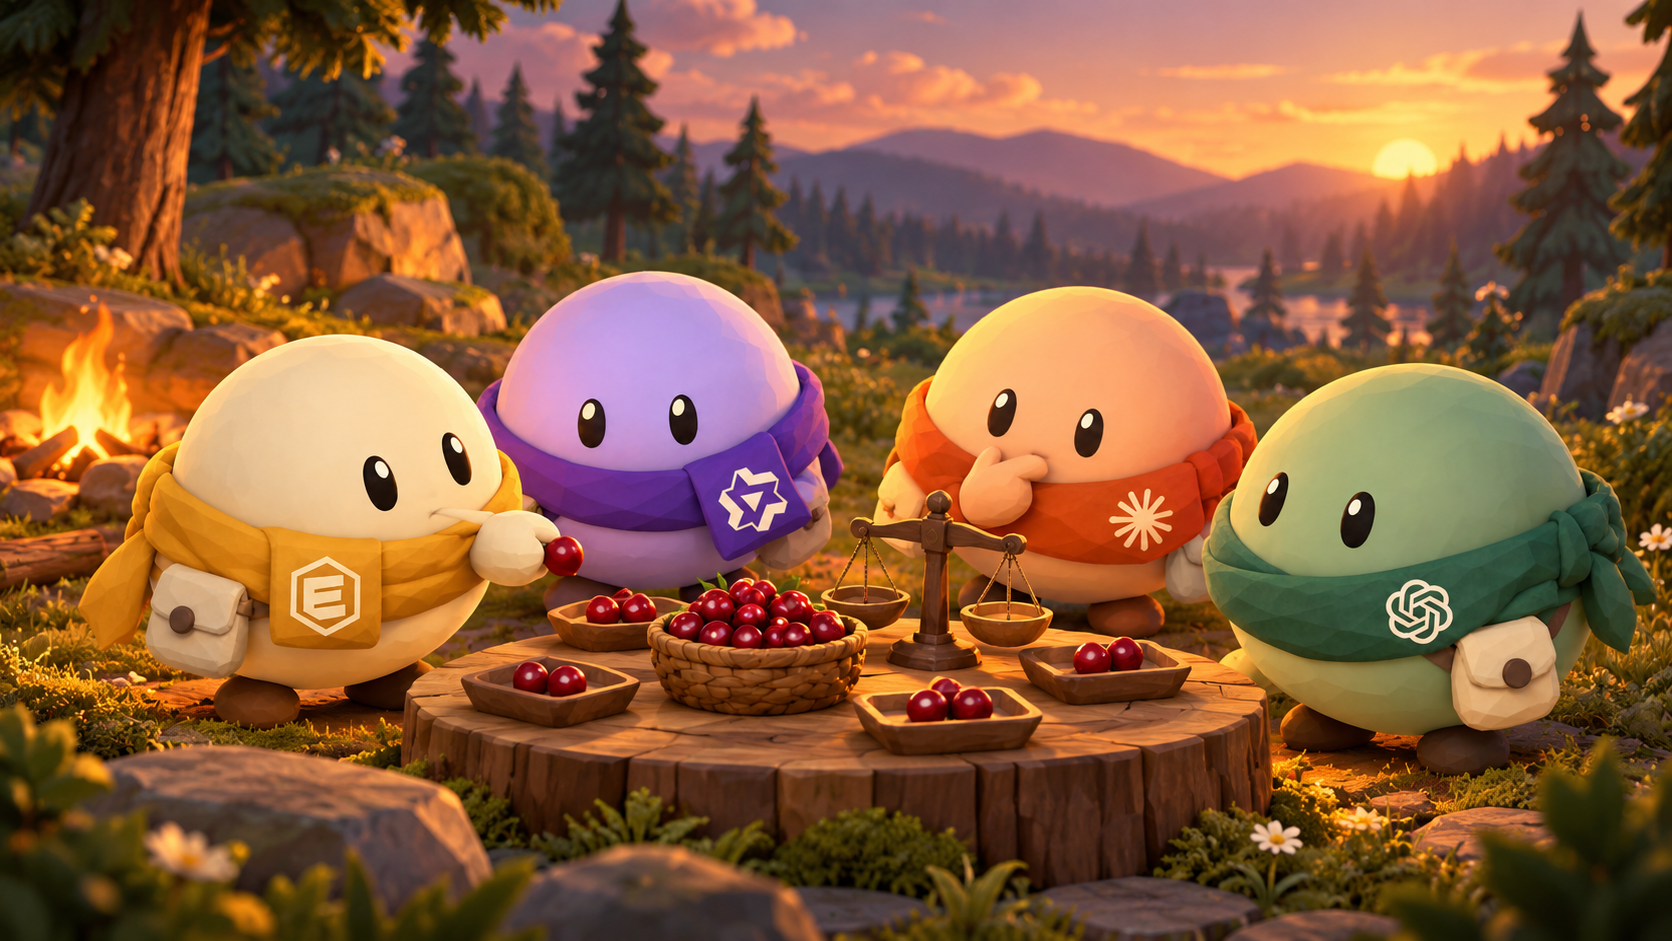
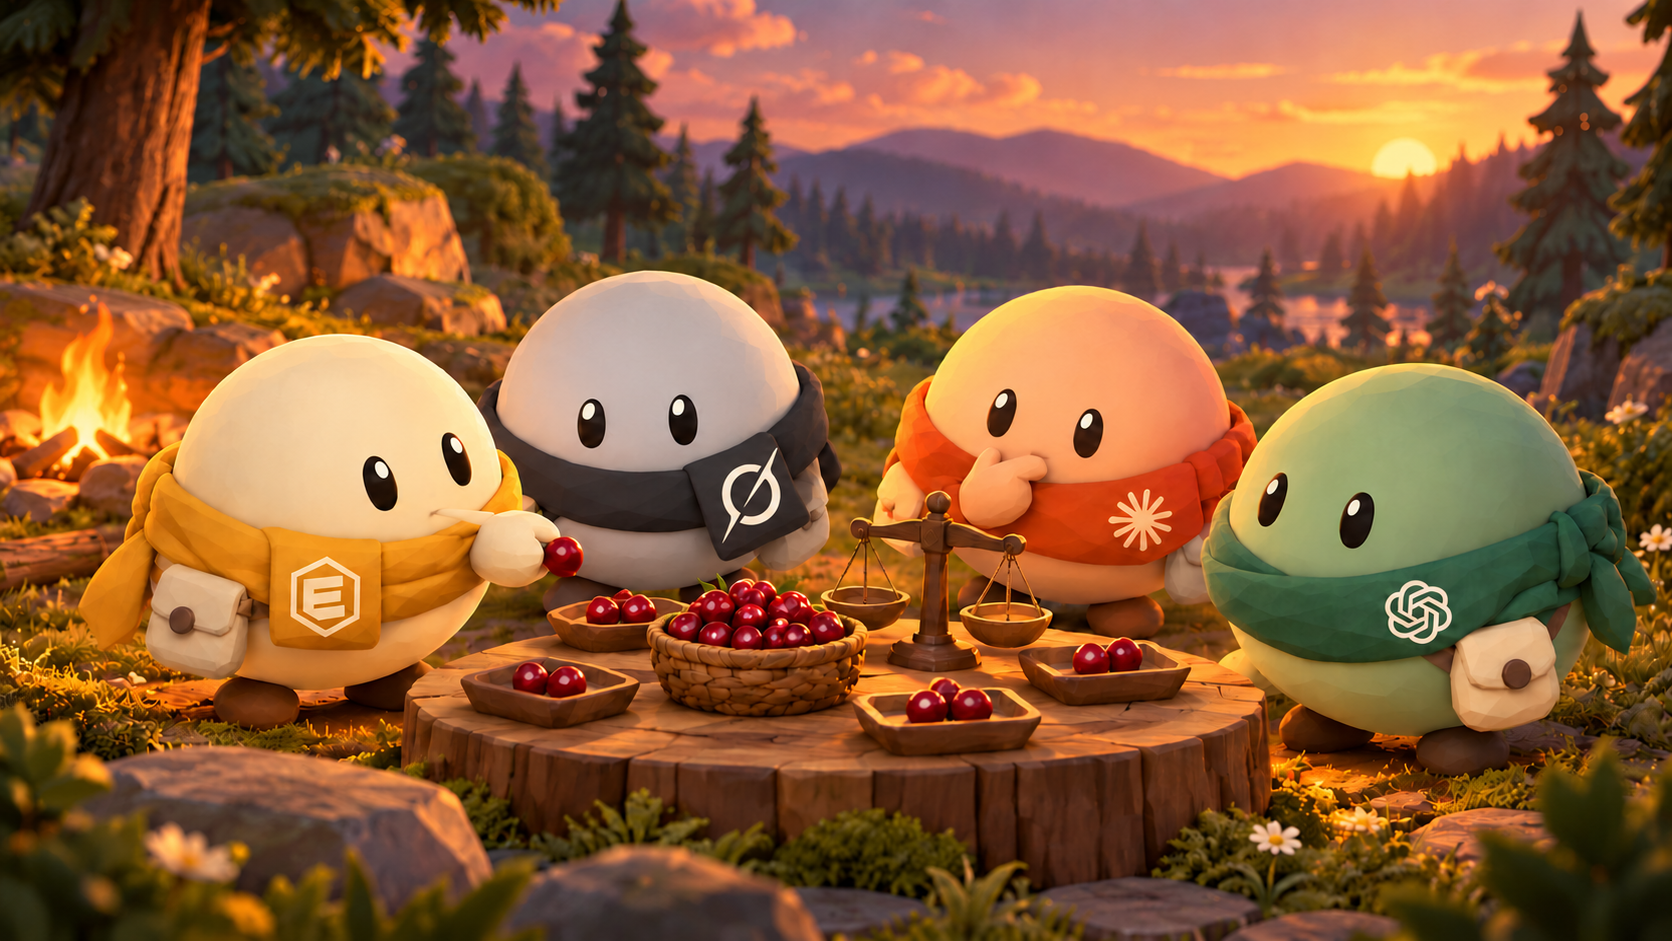
Replace Qwen preset with Grok and refine its model emblem

diff --git a/world/src/frontend/studio-navigation.test.ts b/world/src/frontend/studio-navigation.test.ts
@@ -23,12 +23,12 @@ describe('Observation Studio navigation contracts', () => {
   });
   it('retains draft model through single-agent preview and return', () => {
     const result = journey(
-      { type: 'select-draft-model', model: 'Qwen' },
+      { type: 'select-draft-model', model: 'Grok' },
       { type: 'select-draft-mode', mode: 'single' },
       { type: 'navigate', screen: 'briefing' },
       { type: 'back' },
     );
-    expect(result).toMatchObject({ screen: 'single', draftMode: 'single', draftModel: 'Qwen' });
+    expect(result).toMatchObject({ screen: 'single', draftMode: 'single', draftModel: 'Grok' });
   });
   it('switches agents without moving the replay or changing the run', () => {
     const result = journey(
@@ -66,21 +66,21 @@ describe('Observation Studio navigation contracts', () => {
   });
   it('cancel leaves the applied comparison untouched', () => {
     const result = journey({ type: 'begin-model-change' }, { type: 'pending-model', slot: 1, model: 'Claude' }, { type: 'cancel-model-change' });
-    expect(result.comparePair).toEqual(['Ender', 'Qwen']);
+    expect(result.comparePair).toEqual(['Ender', 'Grok']);
     expect(result.pendingComparePair).toBeNull();
   });
   it('applies a distinct comparison only on Apply', () => {
     const pending = journey({ type: 'begin-model-change' }, { type: 'pending-model', slot: 1, model: 'Claude' });
-    expect(pending.comparePair).toEqual(['Ender', 'Qwen']);
+    expect(pending.comparePair).toEqual(['Ender', 'Grok']);
     expect(transitionStudio(pending, { type: 'apply-model-change' }).comparePair).toEqual(['Ender', 'Claude']);
   });
   it('rejects duplicate model comparisons at the state boundary', () => {
     const duplicate = journey({ type: 'begin-model-change' }, { type: 'pending-model', slot: 1, model: 'Ender' });
-    expect(transitionStudio(duplicate, { type: 'apply-model-change' }).comparePair).toEqual(['Ender', 'Qwen']);
+    expect(transitionStudio(duplicate, { type: 'apply-model-change' }).comparePair).toEqual(['Ender', 'Grok']);
   });
   it('restores comparison filter and pair after evidence', () => {
     const result = journey({ type: 'navigate', screen: 'compare' }, { type: 'compare-scenario', scenario: 'lending' }, { type: 'navigate', screen: 'context' }, { type: 'navigate', screen: 'method' }, { type: 'back' }, { type: 'back' });
-    expect(result).toMatchObject({ screen: 'compare', compareScenario: 'lending', comparePair: ['Ender', 'Qwen'] });
+    expect(result).toMatchObject({ screen: 'compare', compareScenario: 'lending', comparePair: ['Ender', 'Grok'] });
   });
   it('keeps Lending context scoped through nested navigation', () => {
     const result = journey({ type: 'select-briefing-scenario', scenario: 'lending' }, { type: 'navigate', screen: 'lending' }, { type: 'navigate', screen: 'context' }, { type: 'back' });

diff --git a/world/src/frontend/ui-ux/Studio.tsx b/world/src/frontend/ui-ux/Studio.tsx
@@ -13,7 +13,7 @@ import '../studio.css';
 import { withModelNames } from '../model-identity';
 import { ModelBuddy } from './ModelBuddy';
 
-const MODELS: StudioModel[] = ['Ender', 'Qwen', 'Claude', 'ChatGPT'];
+const MODELS: StudioModel[] = ['Ender', 'Grok', 'Claude', 'ChatGPT'];
 const playbackIcon = { previous: '/studio/f7bee.svg', play: '/studio/fbfe3.svg', stop: '/studio/4660a.svg', next: '/studio/aff88.svg' };
 
 export default function Studio() {
@@ -201,7 +201,7 @@ function StudioPages({ state, dispatch, source: rawSource }: { state: StudioStat
           {state.selectedAgentId && selected && <div className="agent-focus" role="status">Following {selected.name}</div>}
           {!source.live && <ReplayDock source={source} current={visibleEvent} onCommand={replayCommand} />}
         </div>
-        {source.ready && source.data?.world && <details className="studio-disclosure studio-spotlight" onToggle={event => { const open = event.currentTarget.open; setSpotlightExpanded(open); if (!open) setSpotlitId(null); }}><summary>Event spotlight</summary><Spotlight events={presentation.beats} agents={source.data.agents} gameTimeMs={source.data.world.gameTimeMs} promptVariant={presentation.promptVariant} systemPrompt={presentation.systemPrompt} onShow={onSpotlight} /></details>}
+        {source.ready && source.data?.world && <details className="studio-disclosure studio-spotlight" open={spotlightExpanded} onToggle={event => { const open = event.currentTarget.open; setSpotlightExpanded(open); if (!open) setSpotlitId(null); }}><summary>Event spotlight</summary><Spotlight events={presentation.beats} agents={source.data.agents} gameTimeMs={source.data.world.gameTimeMs} promptVariant={presentation.promptVariant} systemPrompt={presentation.systemPrompt} onShow={onSpotlight} /></details>}
         <div className="scene-caption"><span className="accent">{state.selectedAgentId && !inspectorEvent ? 'No event for this agent yet' : inspectorEvent?.kind.replace(/_/g, ' ') ?? 'Observing'}</span><span>{state.screen === 'follow' ? `Following ${selected?.name ?? 'agent'}` : 'Select an agent to follow'}</span><button className="camera-reset" disabled={!state.selectedAgentId && camera === 'audience' && spotlitId === null} onClick={() => { selectAgent(null); if (state.screen === 'follow') nav('monitor'); }}>Reset camera</button></div>
         {presentation.narration && <p className="scene-narration" role="status">{presentation.narration}</p>}
         {!source.live && source.replay && <details className="recording-details"><summary>Recording details</summary><p className="recording-provenance">{run.label} · {results.condition ?? 'Condition not recorded'} · {results.modelId ?? 'Model not recorded'}</p><p className="recording-provenance">Recorded from {source.replay.db} · {new Date(source.replay.recordedAt).toLocaleString()}</p></details>}

diff --git a/world/src/frontend/model.ts b/world/src/frontend/model.ts
@@ -1,5 +1,5 @@
 export type StudioScreen = 'landing' | 'setup' | 'single' | 'briefing' | 'monitor' | 'follow' | 'outcome' | 'lending' | 'compare' | 'context' | 'method';
-export type StudioModel = 'Ender' | 'Qwen' | 'Claude' | 'ChatGPT';
+export type StudioModel = 'Ender' | 'Grok' | 'Claude' | 'ChatGPT';
 export type Scenario = 'clearing' | 'lending';
 export type StudioSnapshot = Pick<StudioState, 'screen' | 'runId' | 'selectedAgentId' | 'eventIndex' | 'replayTimeMs' | 'briefingScenario' | 'contextTab' | 'compareScenario' | 'comparePair'>;
 export type StudioState = {
@@ -65,7 +65,7 @@ export function initialStudioState(search: string): StudioState {
     runId: params.get('run') || replayName || 'clearing-charter-v8-admission', selectedAgentId: null,
     eventIndex: 0, replayTimeMs: 0, restoreNonce: 0, playing: false,
     contextTab: params.get('view') === 'details' ? 'details' : 'graph', compareScenario: 'all',
-    comparePair: ['Ender', 'Qwen'], pendingComparePair: null, landingSection: 'top', previewTab: 'clearing',
+    comparePair: ['Ender', 'Grok'], pendingComparePair: null, landingSection: 'top', previewTab: 'clearing',
   };
 }
 

diff --git a/world/src/frontend/model-identity.ts b/world/src/frontend/model-identity.ts
@@ -9,7 +9,7 @@ export function modelDisplayName(modelId: string): string {
 
 export function modelAvatarPath(modelId: string): string | null {
   const id = modelId.toLowerCase();
-  const model = id.includes('qwen') ? 'qwen' : id.includes('claude') ? 'claude' : id.includes('gpt') || id.includes('openai') || id === 'chatgpt' ? 'chatgpt' : id.includes('ender') ? 'ender' : null;
+  const model = id.includes('grok') ? 'grok' : id.includes('claude') ? 'claude' : id.includes('gpt') || id.includes('openai') || id === 'chatgpt' ? 'chatgpt' : id.includes('ender') ? 'ender' : null;
   return model ? `/studio/avatars/${model}.png` : null;
 }
 

diff --git a/world/src/frontend/studio.css b/world/src/frontend/studio.css
@@ -102,7 +102,7 @@
 .model-logo{height:45px;width:45px;border:1px solid #aaa;border-radius:10px;display:grid;place-items:center;font-size:1.25rem;font-weight:800}
 .studio .model-logo img,.studio .avatar img{display:block;width:100%;height:100%;object-fit:contain}
 .model-ender{color:var(--gold);border-color:var(--gold)}
-.model-qwen{color:#b5a1de;border-color:#b5a1de}
+.model-grok{color:#b5a1de;border-color:#b5a1de}
 .model-claude{color:#c48f73;border-color:#c48f73}
 .model-chatgpt{color:#99c9b5;border-color:#99c9b5}
 .mode-switch{display:flex;border-top:1px solid var(--line);margin-top:35px}

diff --git a/world/src/frontend/model-identity.test.ts b/world/src/frontend/model-identity.test.ts
@@ -29,7 +29,7 @@ describe('model identity presentation', () => {
   });
   it('maps only recognized model families to branded buddies', () => {
     expect(modelAvatarPath('codex:gpt-6-luna')).toBe('/studio/avatars/chatgpt.png');
-    expect(modelAvatarPath('Qwen')).toBe('/studio/avatars/qwen.png');
+    expect(modelAvatarPath('Grok')).toBe('/studio/avatars/grok.png');
     expect(modelAvatarPath('Claude')).toBe('/studio/avatars/claude.png');
     expect(modelAvatarPath('Ender')).toBe('/studio/avatars/ender.png');
     expect(modelAvatarPath('other:model')).toBeNull();
